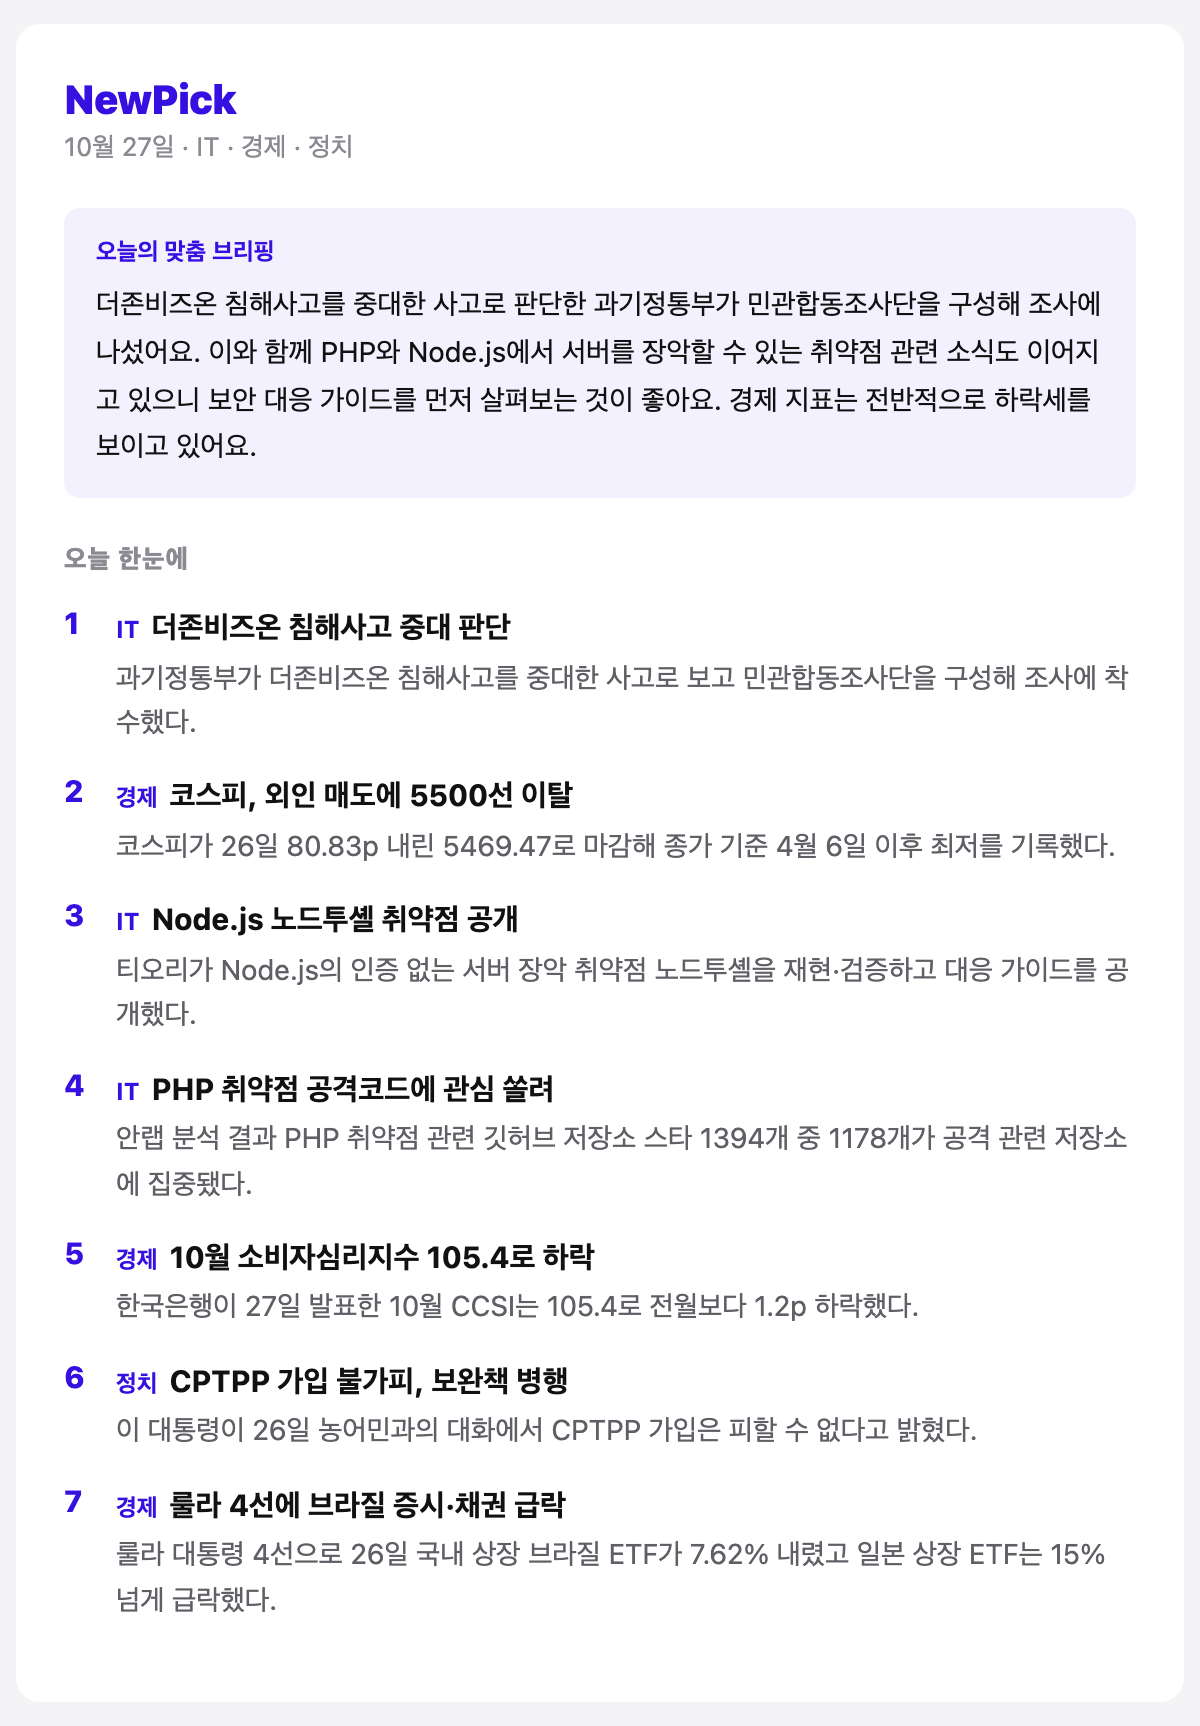
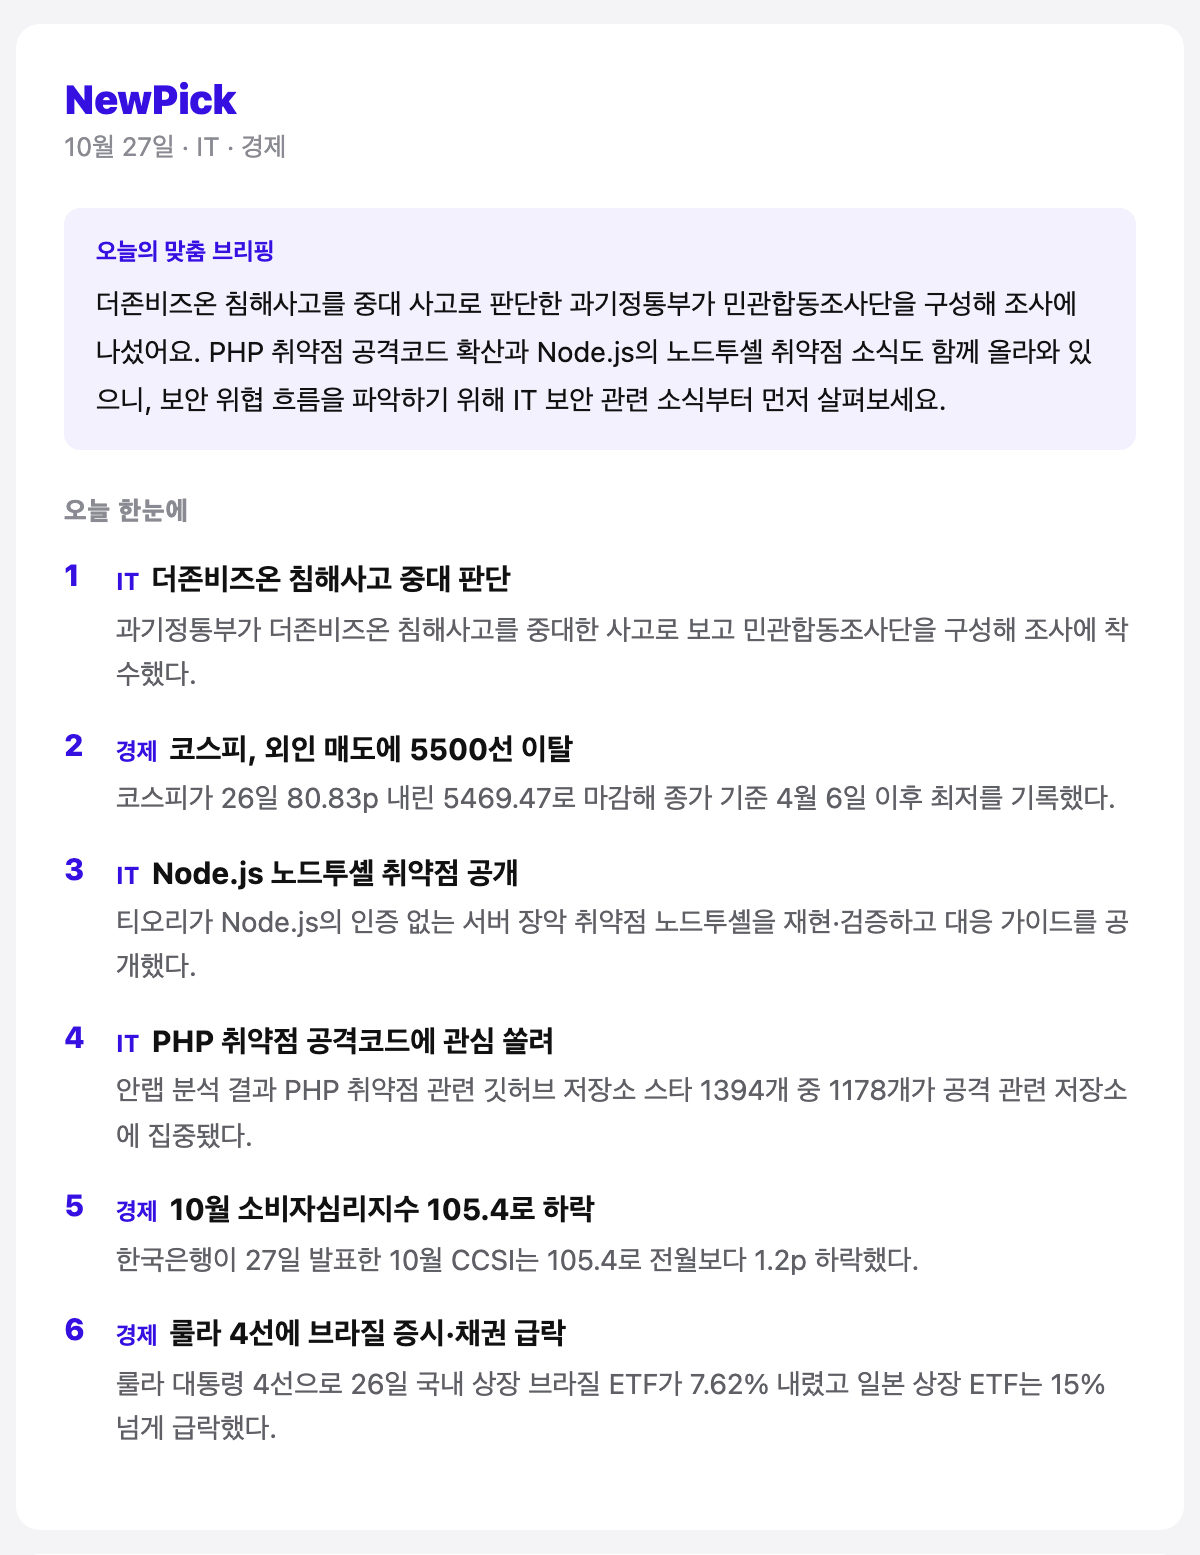
fix: 맞춤 메일에 구독하지 않은 분야는 관심이 닿는 소식만 (자리를 채우려고 관심 없는 다른 분야 소식을 끌어오던 것) · 공통 / 맞춤 1 / 맞춤 2 비교 이미지

Changed region(s): [[0.0308, 0.3087, 0.9558, 0.9569], [0.0308, 0.0309, 0.925, 0.2778]]

diff --git a/apps/api/src/edition/personalize.ts b/apps/api/src/edition/personalize.ts
@@ -12,6 +12,7 @@ import type { PersonalNote } from './personalNote';
  * 관심 점수는 북마크 · 스크랩한 글과 뜻이 얼마나 가까운지(임베딩). 임베딩이 없는 날(할당 초과 등)은
  * 관심 태그(#136)가 소식 글에 나오는지로 대신한다.
  * 구독한 분야에서 편집 중요도가 가장 높은 소식(PERSONAL_LIMITS.keep개)은 늘 넣는다: 관심사만 보다 큰 소식을 놓치지 않게.
+ * 구독하지 않은 분야는 관심이 닿는 소식만 들어온다.
  * 취향 신호가 없거나 어떤 소식에도 닿지 않으면 계획이 없고, 메일은 지금처럼 분야별이다
  */
 
@@ -133,17 +134,17 @@ export function planMail(
         vectors?.get(ref),
         taste,
       );
-      const touched = interest >= PERSONAL_LIMITS.min;
+      // 북마크한 그 소식이 다시 실린 것은 관심으로 치지 않는다 (새로 볼 게 없다)
+      const touched = interest >= PERSONAL_LIMITS.min && !seen;
       return {
         ref,
         newsletterId: source.newsletterId,
         chosen,
         importance,
         touched,
-        // 북마크한 그 소식이 다시 실린 것은 관심으로 치지 않는다 (새로 볼 게 없다)
         score:
           importance +
-          (touched && !seen ? PERSONAL_LIMITS.interest * interest : 0) +
+          (touched ? PERSONAL_LIMITS.interest * interest : 0) +
           (chosen ? PERSONAL_LIMITS.subscribed : 0),
         order: candidatesOrder(sources, source, i),
       };
@@ -168,8 +169,11 @@ export function planMail(
       .sort((a, b) => b.importance - a.importance || a.order - b.order),
     PERSONAL_LIMITS.keep,
   );
+  // 구독하지 않은 분야는 관심이 닿는 소식만 (자리를 채우려고 관심 없는 소식을 끌어오지 않는다)
   take(
-    [...candidates].sort((a, b) => b.score - a.score || a.order - b.order),
+    candidates
+      .filter((c) => c.chosen || c.touched)
+      .sort((a, b) => b.score - a.score || a.order - b.order),
     PERSONAL_LIMITS.stories,
   );
 

diff --git a/apps/api/src/edition/personal.spec.ts b/apps/api/src/edition/personal.spec.ts
@@ -94,7 +94,15 @@ describe('맞춤 계획 (planMail): 분야를 나누지 않고 점수 순', () =
     // 편집 없음 → 뉴스레터 안 순서가 중요도(3, 2, 1)
     // 반도체 수출 2+5+2=9 · 미국 반도체 규제(세계) 3+5=8 · 코스피 3+2=5 · AI 규제법 3+2.5+2=7.5 ...
     expect(refs(plan).slice(0, 3)).toEqual(['10-2', '30-1', '20-1']);
-    expect(plan!.picks).toHaveLength(PERSONAL_LIMITS.stories);
+  });
+
+  it('구독하지 않은 분야는 관심이 닿는 소식만 (자리를 채우려고 끌어오지 않는다)', () => {
+    const picks = refs(planMail(sources, [1, 2], profile));
+    // 세계: 반도체 규제(닿음)는 들어오고 룰라 4선(안 닿음)은 빠진다
+    expect(picks).toContain('30-1');
+    expect(picks).not.toContain('30-2');
+    // 구독 분야 5개 + 닿은 다른 분야 1개 = 6 (7자리여도 채우지 않는다)
+    expect(picks).toHaveLength(6);
   });
 
   it('구독한 분야에서 편집 중요도가 가장 높은 소식 2개는 늘 들어간다', () => {
@@ -145,7 +153,8 @@ describe('맞춤 계획 (planMail): 분야를 나누지 않고 점수 순', () =
     ]);
     const picks = refs(planMail(sources, [1, 2], taste, vectors));
     expect(picks[0]).toBe('30-1');
-    expect(picks.indexOf('30-2')).toBeGreaterThan(picks.indexOf('20-1'));
+    // 구독하지 않은 분야라 관심으로 안 치면 들어오지 않는다
+    expect(picks).not.toContain('30-2');
   });
 
   it('취향이 없거나 어떤 소식에도 닿지 않으면 계획이 없다 (분야별 메일 그대로)', () => {
